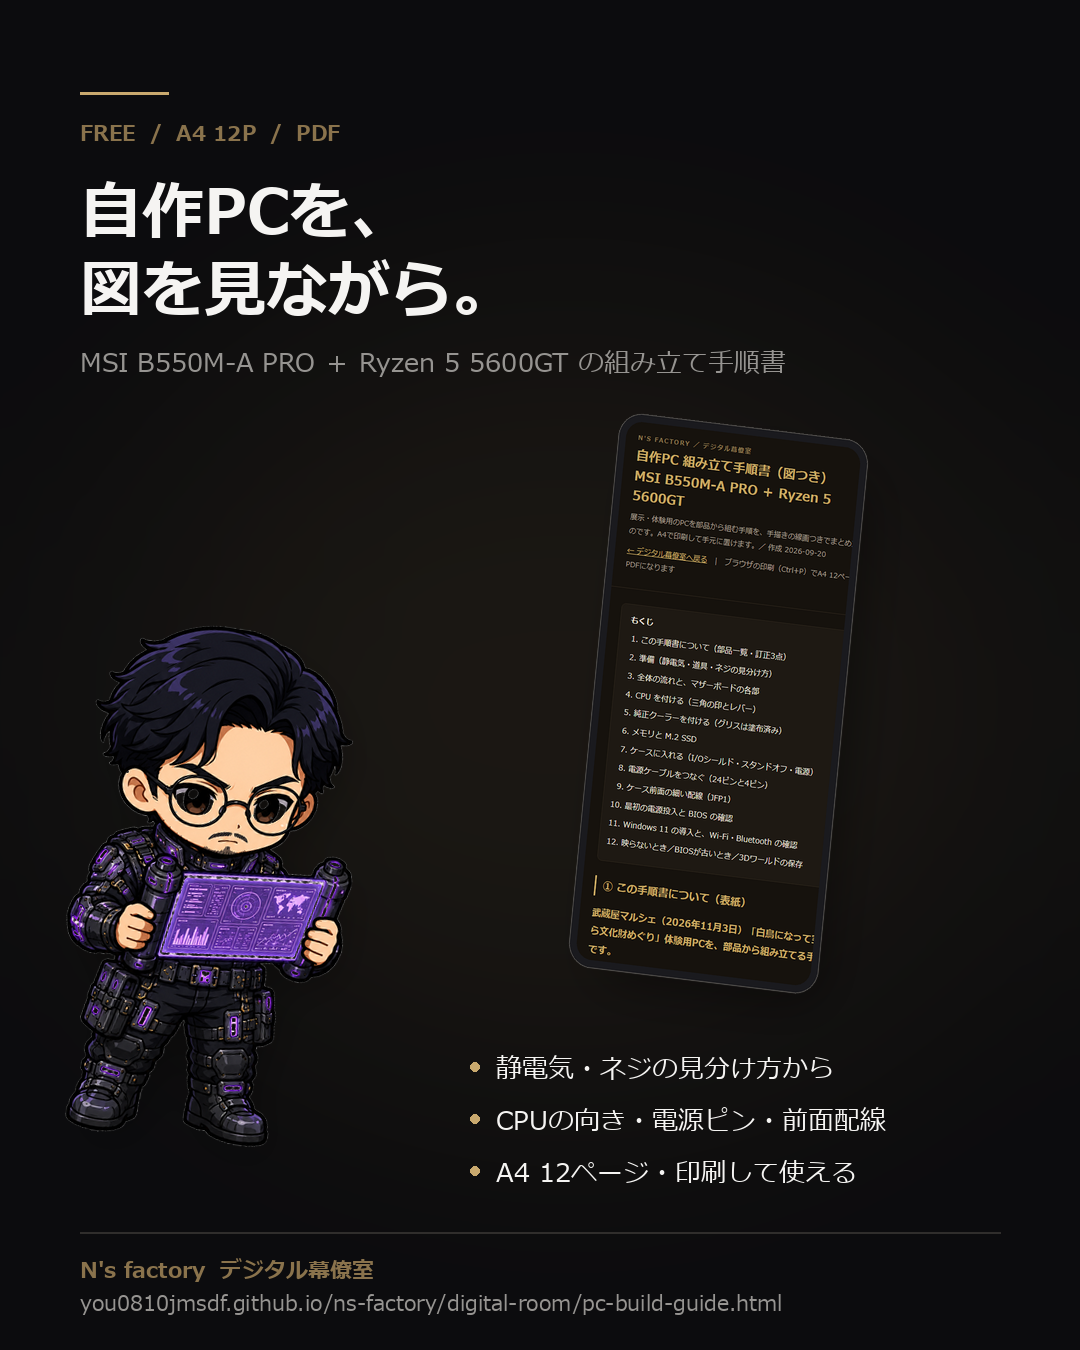
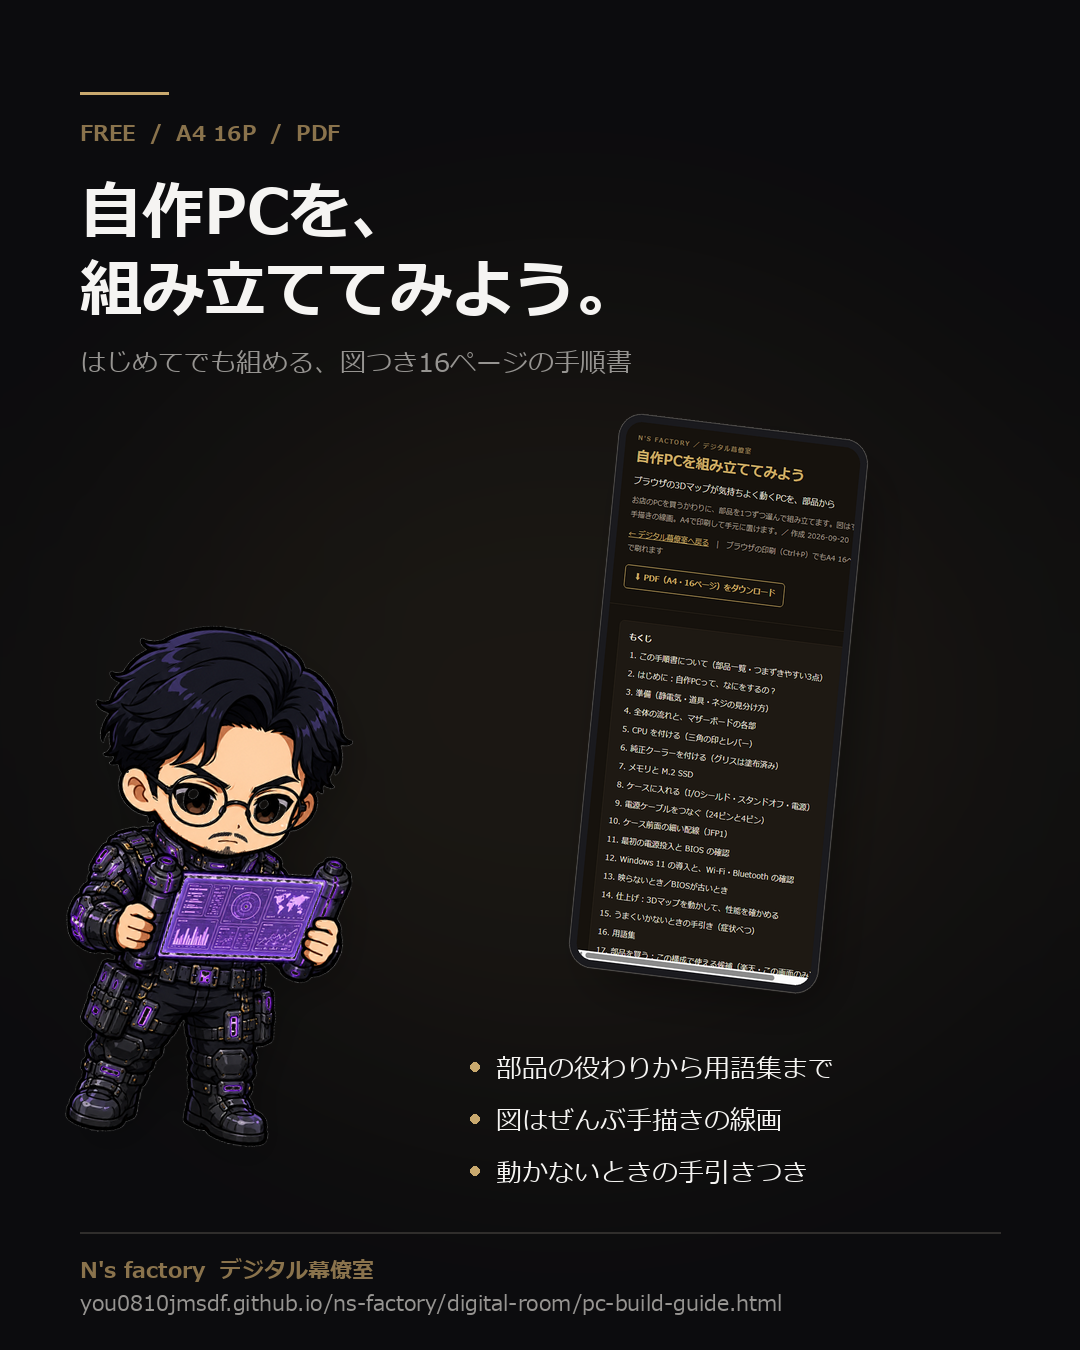
自作PC手順書: ページ数表記の誤り（17→16）を修正し、告知画像を新タイトルで作り直し
一括置換で「16ページ」の中の「6ページ」が拾われ、ヘッダーとPDFボタンが17ページ表記に
なっていた。本文に出る全ページ番号が1〜16に収まることを機械チェック。
告知画像は promo_template.py で再生成（見出しを「自作PCを、組み立ててみよう。」へ）。

Changed region(s): [[0.5194, 0.3111, 0.7944, 0.7467], [0.0611, 0.1867, 0.7333, 0.28], [0.4583, 0.7778, 0.825, 0.8711]]

diff --git a/digital-room/pc-build-guide.html b/digital-room/pc-build-guide.html
@@ -4,7 +4,7 @@
 <meta charset="UTF-8">
 <meta name="viewport" content="width=device-width, initial-scale=1.0">
 <title>自作PCを組み立ててみよう | N's factory デジタル幕僚室</title>
-<meta name="description" content="はじめての自作PC。ブラウザの3Dマップが気持ちよく動く性能をねらって、AM4（Ryzen 5 5600GT＋MSI B550M-A PRO）で1台組みます。静電気対策・ネジの見分け方・CPUの向き・純正クーラー・メモリとM.2・24ピンと4ピンの電源・前面配線・初回起動・BIOSが古いときの対処まで、手描きの線画つき。はじめての人向けの解説と用語集つき・A4 17ページ印刷対応。">
+<meta name="description" content="はじめての自作PC。ブラウザの3Dマップが気持ちよく動く性能をねらって、AM4（Ryzen 5 5600GT＋MSI B550M-A PRO）で1台組みます。静電気対策・ネジの見分け方・CPUの向き・純正クーラー・メモリとM.2・24ピンと4ピンの電源・前面配線・初回起動・BIOSが古いときの対処まで、手描きの線画つき。はじめての人向けの解説と用語集つき・A4 16ページ印刷対応。">
 <!-- Google tag (gtag.js) -->
 <script>
 try { if (localStorage.getItem('nsf_ga_optout') === '1') { window['ga-disable-G-ND1T7H067Y'] = true; } } catch (e) {}
@@ -139,8 +139,8 @@ p.rule{font-size:13px;color:var(--dim);margin-bottom:6px}
   <div class="eyebrow">N'S FACTORY ／ デジタル幕僚室</div>
   <h1>自作PCを組み立ててみよう<br><span class="sub">ブラウザの3Dマップが気持ちよく動くPCを、部品から</span></h1>
   <p>お店のPCを買うかわりに、部品を1つずつ選んで組み立てます。図はすべて手描きの線画。A4で印刷して手元に置けます。／ 作成 2026-09-20</p>
-  <p class="noprint"><a href="./">← デジタル幕僚室へ戻る</a>　|　ブラウザの印刷（Ctrl+P）でもA4 17ページで刷れます</p>
-  <p class="noprint"><a class="dlbtn" href="pc-build-guide.pdf" download>⬇ PDF（A4・17ページ）をダウンロード</a></p>
+  <p class="noprint"><a href="./">← デジタル幕僚室へ戻る</a>　|　ブラウザの印刷（Ctrl+P）でもA4 16ページで刷れます</p>
+  <p class="noprint"><a class="dlbtn" href="pc-build-guide.pdf" download>⬇ PDF（A4・16ページ）をダウンロード</a></p>
 </header>
 <main>
 
